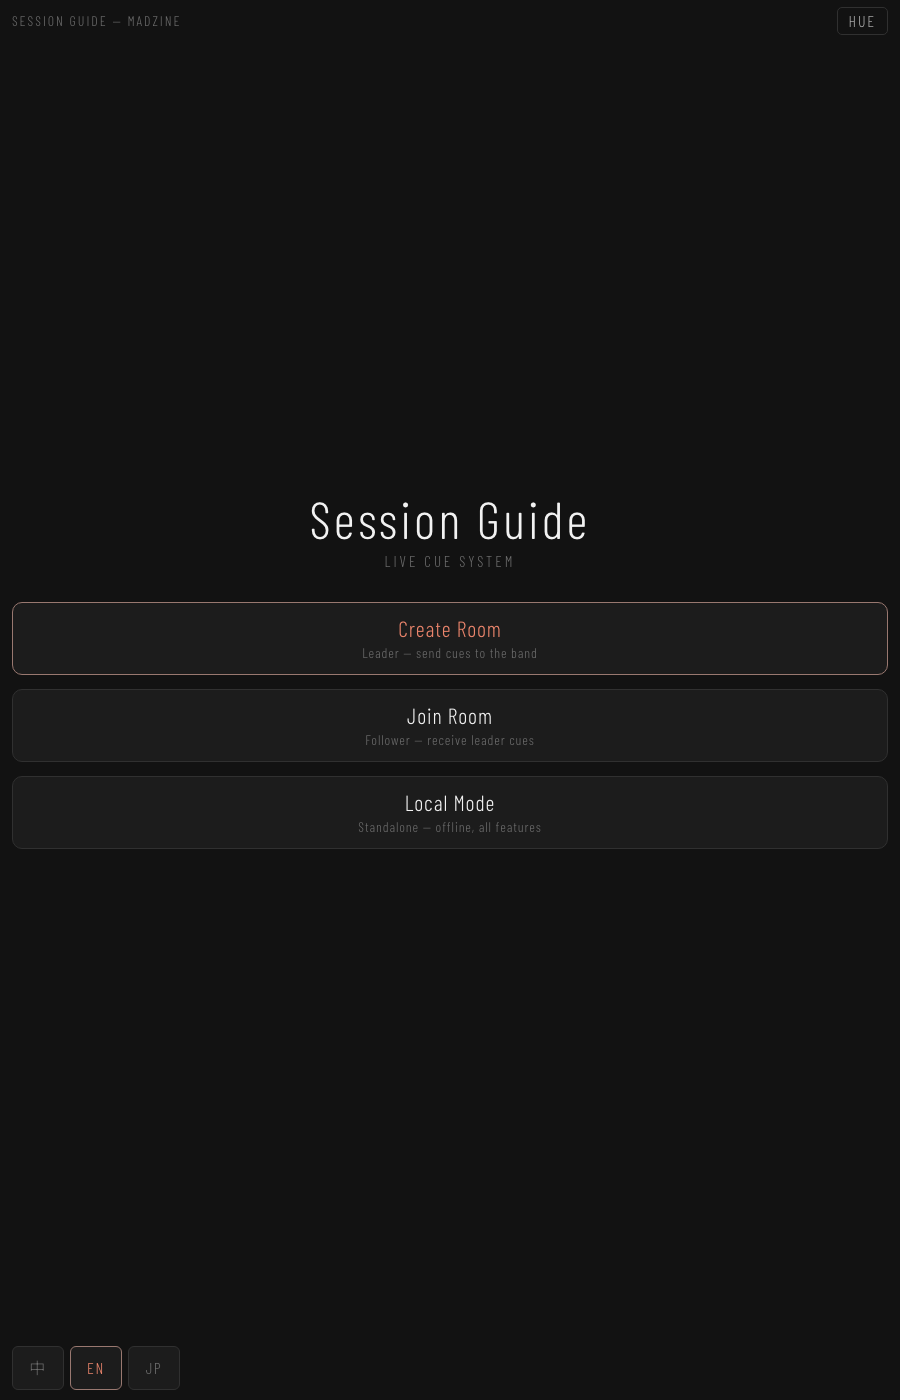
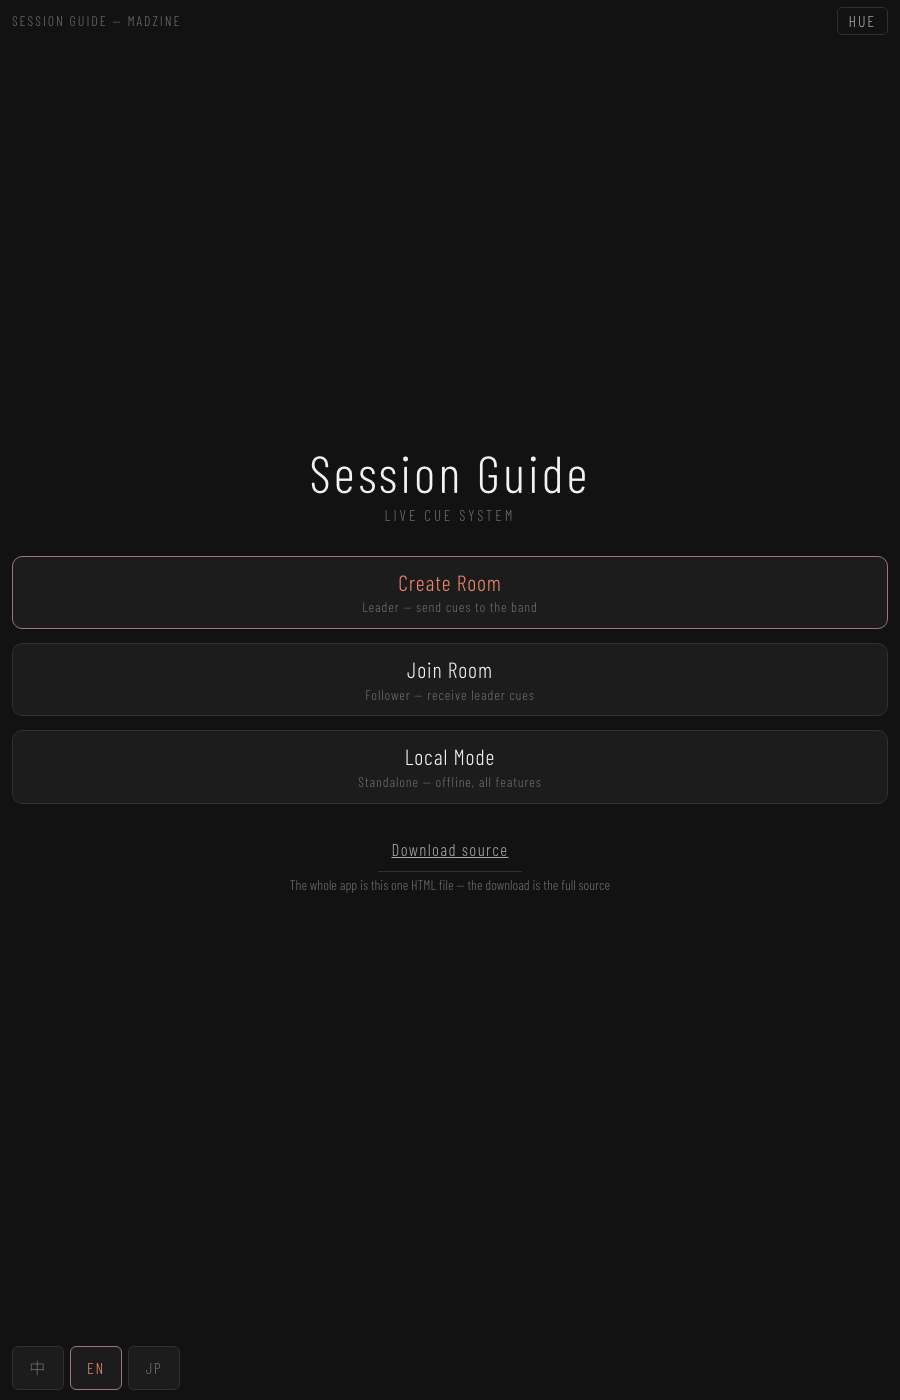
Session Guide: 首頁加下載原始碼連結
程式即單一 HTML 檔，href 由 location.pathname 產生以同時適用
repo 的 index.html 與網站的 sessionguide-app.html。

Changed region(s): [[0.3422, 0.3071, 0.6533, 0.645]]

diff --git a/sessionguide-app.html b/sessionguide-app.html
@@ -83,6 +83,13 @@ button{background:none;border:none;cursor:pointer}
   padding:12px;line-height:1.2;
 }
 .big-btn .sub{display:block;font-size:14px;color:var(--fg3);margin-top:4px;line-height:1.2}
+/* self-download: the app is one file, so the page hands out its own source */
+#srcbox{text-align:center;margin-top:10px}
+#srcdl{display:inline-flex;align-items:center;justify-content:center;min-height:44px;
+  padding:0 14px;font-size:17px;letter-spacing:.08em;color:var(--fg2);
+  border-bottom:1px solid var(--line);cursor:pointer}
+#srcdl:active{color:var(--acc)}
+#srcnote{font-size:14px;color:var(--fg3);line-height:1.35;margin-top:4px;padding:0 8px}
 .big-btn.primary{border-color:var(--acc-dim);color:var(--acc)}
 .big-btn:active{background:var(--panel)}
 
@@ -397,6 +404,10 @@ button{background:none;border:none;cursor:pointer}
     <button class="big-btn primary" id="btnCreate"><span data-i18n="home_create"></span><span class="sub" data-i18n="home_create_sub"></span></button>
     <button class="big-btn" id="btnJoin"><span data-i18n="home_join"></span><span class="sub" data-i18n="home_join_sub"></span></button>
     <button class="big-btn" id="btnLocal"><span data-i18n="home_local"></span><span class="sub" data-i18n="home_local_sub"></span></button>
+    <div id="srcbox">
+      <a id="srcdl" download="SessionGuide.html" data-i18n="src_dl"></a>
+      <div id="srcnote" data-i18n="src_note"></div>
+    </div>
   </div>
 
   <!-- JOIN -->
@@ -579,6 +590,8 @@ var I18N = {
   home_create:"建立房間",     home_create_sub:"Leader — 發送指令給團員",
   home_join:"加入房間",       home_join_sub:"Follower — 接收 leader 的指令",
   home_local:"本地模式",      home_local_sub:"單機 — 不連線，功能全部可用",
+  src_dl:"下載原始碼",
+  src_note:"整個程式就是這一個 HTML 檔，下載到的即完整原始碼",
   join_lab:"輸入四位房號",
   join_name_lab:"你的暱稱（可留空）",
   join_name_ph:"暱稱",
@@ -645,6 +658,8 @@ var I18N = {
   home_create:"Create Room",  home_create_sub:"Leader — send cues to the band",
   home_join:"Join Room",      home_join_sub:"Follower — receive leader cues",
   home_local:"Local Mode",    home_local_sub:"Standalone — offline, all features",
+  src_dl:"Download source",
+  src_note:"The whole app is this one HTML file — the download is the full source",
   join_lab:"ENTER 4 CHARACTER CODE",
   join_name_lab:"YOUR NAME (OPTIONAL)",
   join_name_ph:"Name",
@@ -711,6 +726,8 @@ var I18N = {
   home_create:"ルームを作成",  home_create_sub:"リーダー — メンバーへキュー送信",
   home_join:"ルームに参加",    home_join_sub:"フォロワー — リーダーのキュー受信",
   home_local:"ローカルモード", home_local_sub:"単体 — オフラインで全機能",
+  src_dl:"ソースをダウンロード",
+  src_note:"アプリ全体がこの HTML 1 ファイル。ダウンロードしたものが完全なソース",
   join_lab:"4文字のコードを入力",
   join_name_lab:"ニックネーム（任意）",
   join_name_ph:"名前",
@@ -2438,6 +2455,15 @@ document.addEventListener("gesturestart", function(e){ e.preventDefault(); });
 applyTheme();
 if(needMigrateSave){ try{ saveCells(); }catch(err){} }   // v1 -> v2, written once
 applyLang();     // also runs renderAll()
+/* The source link points at this very file rather than a hard-coded name: the
+   app is index.html in the repo and sessionguide-app.html on the site, so any
+   fixed path would break on one of them. */
+(function(){
+  var a = document.getElementById("srcdl");
+  if(!a) return;
+  var p = location.pathname;
+  a.href = /\/$/.test(p) ? p + "index.html" : p;
+})();
 requestAnimationFrame(tick);
 setInterval(update, 100);
 

diff --git a/DEVLOG.md b/DEVLOG.md
@@ -2,6 +2,15 @@
 
 ## 2026-08-02
 
+### Session Guide：首頁加下載原始碼
+
+- 程式本身就是單一 HTML 檔，下載原始碼即下載該檔本身
+- 連結 href 由 `location.pathname` 產生而非寫死：repo 內是 `index.html`、網站上是 `sessionguide-app.html`，寫死任一個都會在另一邊失效；pathname 以 `/` 結尾時補 `index.html`
+- 存檔名固定 `SessionGuide.html`
+- 放在首頁三顆大按鈕下方，不進主操作畫面，避免演出中誤觸
+- 三語：下載原始碼 / Download source / ソースをダウンロード
+- 首頁預覽截圖一併重生（首頁正是該截圖的畫面）
+
 ### Session Guide：倒數與漸變畫面顯示下一個動作
 
 - 選了槽 4 時，倒數畫面與漸變畫面顯示「然後 X」，讓所有人在事情發生前就知道接下來是什麼
